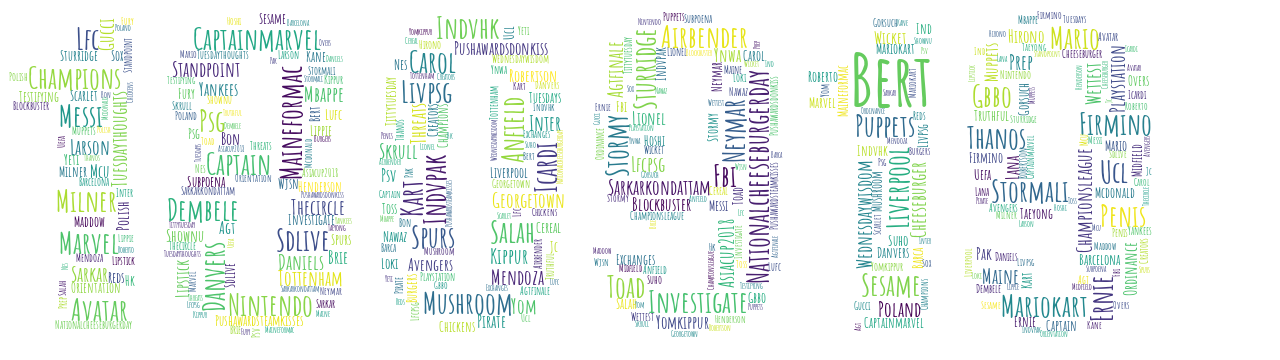
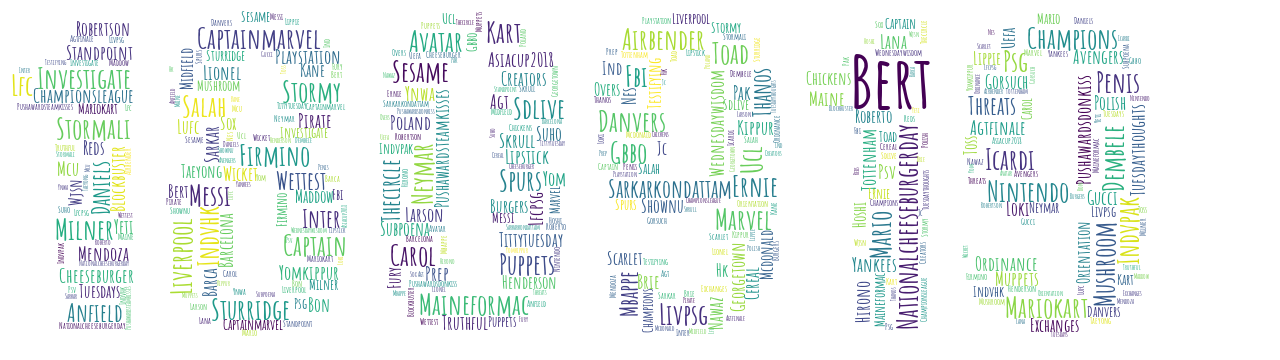
trend-20180919

Changed region(s): [[0.0, 0.0306, 0.9062, 0.9472]]

diff --git a/readme.md b/readme.md
@@ -1,8 +1,8 @@
 ## What’s hot on twitter right now?
 
-![trend-20180918][wordcloud]
+![trend-20180919][wordcloud]
 
-[wordcloud]: https://raw.githubusercontent.com/xdqc/tweet-trend-everyday/master/word-cloud/trend-20180918.png "trend-20180918"
+[wordcloud]: https://raw.githubusercontent.com/xdqc/tweet-trend-everyday/master/word-cloud/trend-20180919.png "trend-20180919"
 
 ## Text mining procedures:
 
